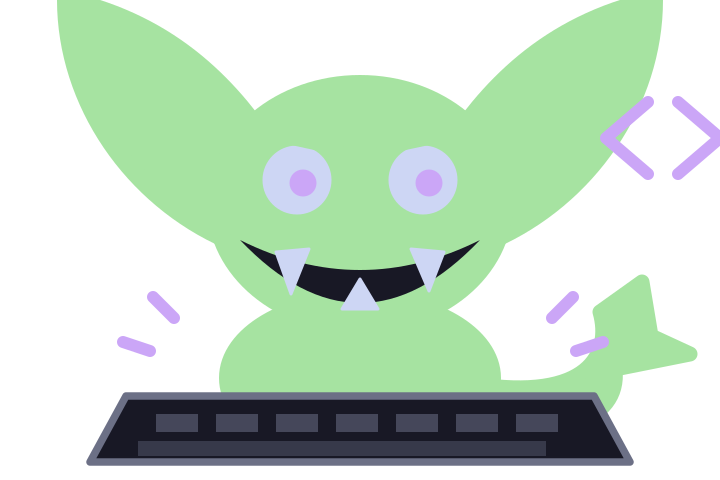
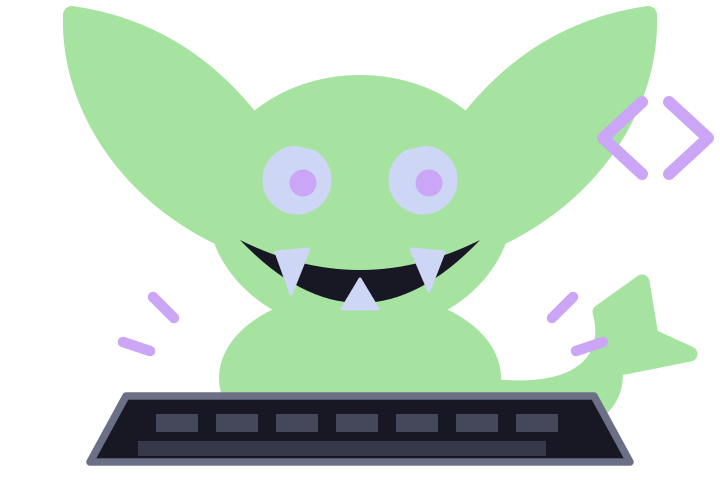
fix(brand): gremlin review defects — theme classes, widths, clips, lids
Cross-family review (GPT-6 Astra) + self-found, all fixed:

- asleep: closed-eye lids were invisible (fill:none killed .dark's only
  paint) — dedicated .lid class w/ theme override; canonical grin + 3
  fangs restored
- systemic: class stroke-width beat element attrs (legs 5-7 rendered 12,
  sparks 3 rendered 4) — widths moved to element attributes
- systemic: keyboard outline hard-coded #6c7086 — .kbd class w/ light theme
- loading: rotated right ear clipped above viewBox — head +3y
- hero (self-found): ear tips clipped at y=0; right bracket clipped at
  x=240 (cap = 128 edge) — pulled inside
- model-sheet (self-found): had no light-theme overrides at all
- rule 3 clarified: same-colour stroke welds on fills are legal (that is
  the silhouette weight), contrast outlines are not

diff --git a/profile/assets/brand/mascot/README.md b/profile/assets/brand/mascot/README.md
@@ -46,9 +46,11 @@ Mocha dark default, Latte light) with the same class contract as
    file dialogs, disk-space errors.
 2. **Mauve = produced.** Node pupils always; code brackets/sparks only in
    `working`/`hero`; zero mauve in `asleep`.
-3. **One silhouette weight.** Filled forms with round joins; never
-   outlines-plus-fill mixing (a shape is filled or stroked with an inline
-   `style="fill:none"`, never both), no gradients, glow, or 3D.
+3. **One silhouette weight.** Filled forms with round joins — a filled form may
+   carry a same-colour stroke to weld overlaps (never a contrasting outline).
+   Stroke-only details (brows, claws, lids, guides) use inline `style="fill:none"`
+   or a dedicated class with an explicit stroke. Never outline-render a shape
+   among fills. No gradients, glow, or 3D.
 4. **Props are load-bearing only.** The keyboard (the interface) and the moon
    (night) are the only props. No hats, scarves, laptops, speech bubbles.
 5. **Small-size honesty.** Silhouette survives 32px. At favicon size use
